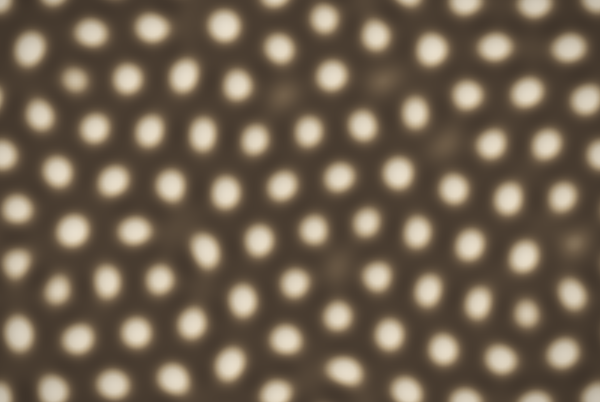
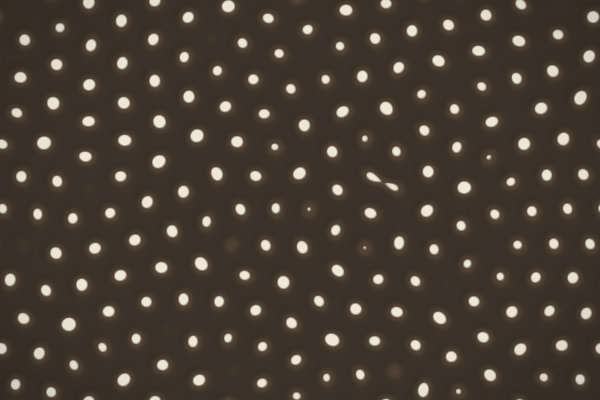
Render crisp anti-aliased edges and default to ultra resolution
The wide value ramp from the previous change smeared each edge across
~20 screen pixels once the grid was upscaled, which read as blur.
Treat the field as a shape instead: threshold it with a ~1px
fwidth-based anti-aliased edge, keep gentle relief inside, and keep
the rim shadow and rim tint tight so nothing haloes.

Default resolution is now ultra (0.75). The headless renderer uses the
same bicubic filter and edge treatment, and the gallery is re-rendered.

diff --git a/scripts/render.ts b/scripts/render.ts
@@ -71,19 +71,28 @@ const A = sim.A;
 const B = sim.B;
 const W = w * scale;
 const H = h * scale;
+const cell = (cx: number, cy: number) => {
+  const i = (((cy % h) + h) % h) * w + (((cx % w) + w) % w);
+  return Math.min(1, Math.max(0, (B[i] - A[i]) * 0.5 + 0.5));
+};
+const bspline = (t: number): [number, number, number, number] => {
+  const t2 = t * t;
+  const t3 = t2 * t;
+  return [(1 - 3 * t + 3 * t2 - t3) / 6, (4 - 6 * t2 + 3 * t3) / 6, (1 + 3 * t + 3 * t2 - 3 * t3) / 6, t3 / 6];
+};
+// cubic B-spline sample of (B - A) * 0.5 + 0.5 in cell space, same filter as the shader
 const field = (x: number, y: number) => {
-  // bilinear sample of (B - A) * 0.5 + 0.5 with wrapping, in cell space
   const x0 = Math.floor(x);
   const y0 = Math.floor(y);
-  const fx = x - x0;
-  const fy = y - y0;
-  const v = (cx: number, cy: number) => {
-    const i = (((cy % h) + h) % h) * w + (((cx % w) + w) % w);
-    return Math.min(1, Math.max(0, (B[i] - A[i]) * 0.5 + 0.5));
-  };
-  const top = v(x0, y0) * (1 - fx) + v(x0 + 1, y0) * fx;
-  const bot = v(x0, y0 + 1) * (1 - fx) + v(x0 + 1, y0 + 1) * fx;
-  return top * (1 - fy) + bot * fy;
+  const wx = bspline(x - x0);
+  const wy = bspline(y - y0);
+  let sum = 0;
+  for (let j = 0; j < 4; j++) {
+    let row = 0;
+    for (let i = 0; i < 4; i++) row += wx[i] * cell(x0 - 1 + i, y0 - 1 + j);
+    sum += wy[j] * row;
+  }
+  return sum;
 };
 const smooth = (e0: number, e1: number, x: number) => {
   const t = Math.min(1, Math.max(0, (x - e0) / (e1 - e0)));
@@ -91,32 +100,40 @@ const smooth = (e0: number, e1: number, x: number) => {
 };
 
 const L = [-0.5, -0.6, 0.65];
-const top = sampleRamp(palette, 1);
 const ln = Math.hypot(...L);
+const EDGE = 0.22;
+const bg = sampleRamp(palette, 0);
 const rgb = new Uint8Array(W * H * 3);
 for (let py = 0; py < H; py++) {
   for (let px = 0; px < W; px++) {
     const x = (px + 0.5) / scale - 0.5;
     const y = (py + 0.5) / scale - 0.5;
     const val = field(x, y);
-    let [r, g, b] = sampleRamp(palette, smooth(0.05, 0.55, val));
+
+    // anti-aliased edge ~1 output pixel wide (CPU stand-in for fwidth)
+    const fw = Math.abs(field(x + 1 / scale, y) - val) + Math.abs(field(x, y + 1 / scale) - val);
+    const aa = Math.max(fw, 1e-4);
+    const cover = smooth(EDGE - aa, EDGE + aa, val);
+
+    const depth = smooth(EDGE, EDGE + 0.2, val);
+    let [r, g, b] = sampleRamp(palette, 0.9 + 0.1 * depth);
     const dx = field(x + 1, y) - field(x - 1, y);
     const dy = field(x, y + 1) - field(x, y - 1);
     const nx = -dx * 4;
     const ny = -dy * 4;
     const nl = Math.hypot(nx, ny, 1);
     const light = (nx * L[0] + ny * L[1] + L[2]) / (nl * ln);
-    const diffuse = Math.min(1.12, Math.max(0.72, 0.78 + 0.32 * light));
-    const k = 1 + shade * (diffuse - 1);
-    const sheen = shade * 0.07 * Math.pow(Math.max(light, 0), 6);
+    const k = 1 + shade * (Math.min(1.1, Math.max(0.75, 0.8 + 0.3 * light)) - 1);
+    r *= k;
+    g *= k;
+    b *= k;
+
+    const near = smooth(EDGE * 0.85, EDGE, val);
+    const ok = 1 - 0.12 * near * shade;
     const vig = 1 - 0.2 * smooth(0.35, 0.85, Math.hypot(px / W - 0.5, (py / H - 0.5) * 0.85));
-    r = (r * k + sheen * top[0]) * vig;
-    g = (g * k + sheen * top[1]) * vig;
-    b = (b * k + sheen * top[2]) * vig;
     const o = (py * W + px) * 3;
-    rgb[o] = Math.round(Math.min(1, Math.max(0, r)) * 255);
-    rgb[o + 1] = Math.round(Math.min(1, Math.max(0, g)) * 255);
-    rgb[o + 2] = Math.round(Math.min(1, Math.max(0, b)) * 255);
+    const out = [bg[0] * ok + (r - bg[0] * ok) * cover, bg[1] * ok + (g - bg[1] * ok) * cover, bg[2] * ok + (b - bg[2] * ok) * cover];
+    for (let c = 0; c < 3; c++) rgb[o + c] = Math.round(Math.min(1, Math.max(0, out[c] * vig)) * 255);
   }
 }
 

diff --git a/src/gl/shaders.ts b/src/gl/shaders.ts
@@ -132,21 +132,33 @@ float val(vec2 uv) {
 
 void main() {
   float v = val(vUv);
-  // A-dominant regions sit near 0.0, dense B near ~0.5-0.7. A wide, gentle ramp lets
-  // shapes fade into the background instead of cutting a hard edge.
-  float t = smoothstep(0.05, 0.55, v);
-  vec3 col = ramp(t);
 
-  // soft diffuse relief from the upper-left (shallow normals, no dark rims)
+  // Treat the smooth field as a shape: everything above EDGE is "growth". The edge is
+  // anti-aliased over ~1 screen pixel (fwidth), so outlines stay vector-crisp no matter
+  // how far the simulation grid is upscaled.
+  const float EDGE = 0.22;
+  float aa = max(fwidth(v), 1e-4);
+  float cover = smoothstep(EDGE - aa, EDGE + aa, v);
+
+  // inside: tone runs from the mid stop at the rim to the brightest stop at the core
+  // (a short, narrow range: a wide one leaves a pale ring that reads as fuzz)
+  float depth = smoothstep(EDGE, EDGE + 0.2, v);
+  vec3 inside = ramp(0.9 + 0.1 * depth);
+
+  // outside: flat background with a thin, faint contact shadow right at the rim
+  // (kept tight on purpose: a wide halo reads as blur)
+  float near = smoothstep(EDGE * 0.85, EDGE, v);
+  vec3 outside = uStops[0] * (1.0 - 0.12 * near * uShade);
+
+  // gentle diffuse relief on the growth only
   vec2 e = 1.0 / uSize;
   float dx = val(vUv + vec2(e.x, 0.0)) - val(vUv - vec2(e.x, 0.0));
   float dy = val(vUv + vec2(0.0, e.y)) - val(vUv - vec2(0.0, e.y));
   vec3 n = normalize(vec3(-dx * 4.0, -dy * 4.0, 1.0));
   float light = dot(n, normalize(vec3(-0.5, 0.6, 0.65)));
-  float diffuse = clamp(0.78 + 0.32 * light, 0.72, 1.12);
-  col *= mix(1.0, diffuse, uShade);
-  // faint sheen tinted by the palette's brightest stop rather than pure white
-  col += uShade * 0.07 * pow(max(light, 0.0), 6.0) * uStops[4];
+  inside *= mix(1.0, clamp(0.8 + 0.3 * light, 0.75, 1.1), uShade);
+
+  vec3 col = mix(outside, inside, cover);
 
   // gentle vignette keeps the eye in the middle and calms the edges
   float r = length((vUv - 0.5) * vec2(1.0, 0.85));

diff --git a/src/core/state.ts b/src/core/state.ts
@@ -22,7 +22,7 @@ export const DEFAULTS: AppState = {
   seed: 1,
   speed: 14,
   brush: 18,
-  resolution: 0.35,
+  resolution: 0.75,
   shade: 0.6,
   map: false,
 };

diff --git a/README.md b/README.md
@@ -141,7 +141,7 @@ test/         vitest suites
 - **Ping-pong float textures.** State lives in two `RGBA32F` framebuffers. Each step reads one and writes the other, and the speed slider sets how many steps run per frame.
 - **Toroidal world.** `REPEAT` sampling makes the dish wrap at the edges, so there are no hard boundaries.
 - **CPU twin.** `core/grayscott.ts` runs exactly the same stencil in TypeScript. That lets tests check real behaviour (coral spreads, high kill wipes out B, edges wrap) without a GPU.
-- **Smooth upscaling and soft relief.** The grid is bicubic-upscaled to screen resolution, then treated as a height map and lit gently. Palettes avoid pure black and white so dense patterns don't glare.
+- **Crisp at any scale.** The grid is bicubic-upscaled, then drawn as shapes whose outlines are anti-aliased to about one screen pixel (`fwidth`), so edges stay sharp however far the simulation is stretched. Inside, a gentle height-map light gives soft relief. Palettes avoid pure black and white so dense patterns don't glare.
 
 ## Scripts
 
